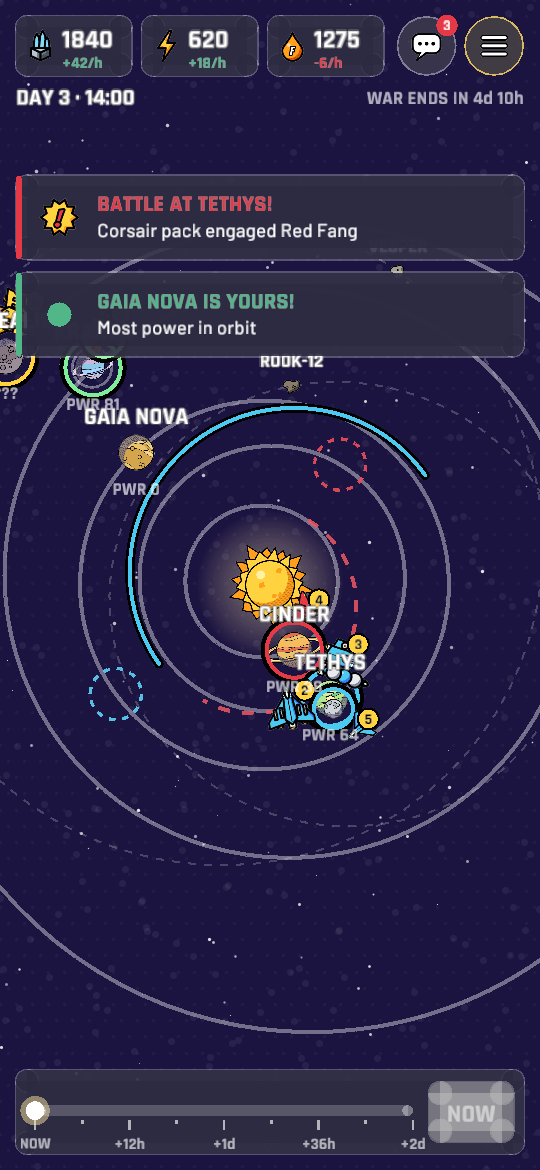
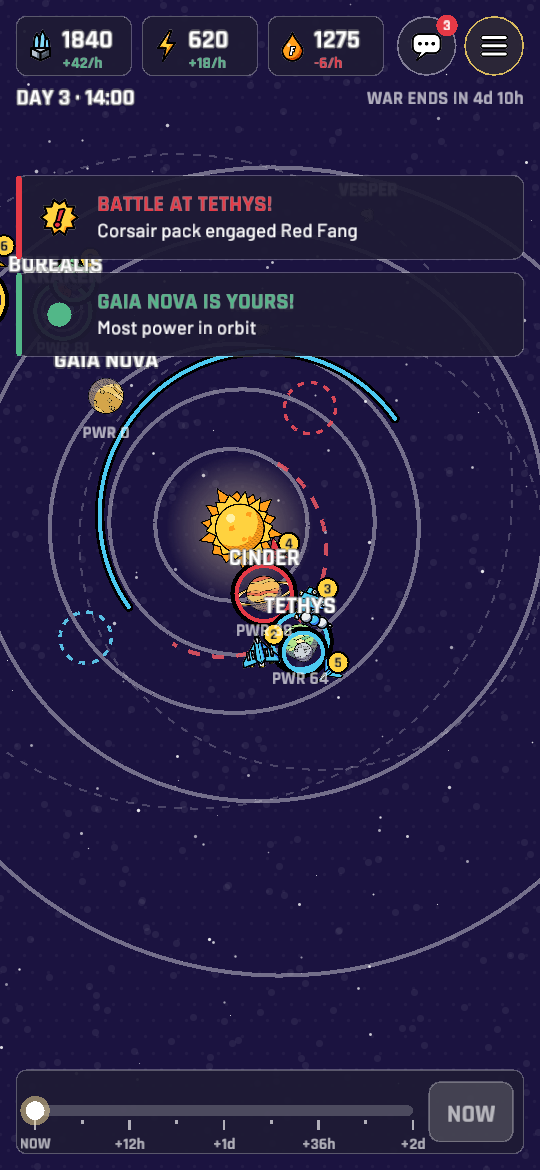
ui: plotting state before blocking plan call, compact target bar, ship sprites in sheets

diff --git a/crates/ui/src/game/panels.rs b/crates/ui/src/game/panels.rs
@@ -234,6 +234,15 @@ pub fn sheet(g: &mut GameScreen, inp: &mut Input, be: &dyn Backend, view: &GameV
                 ship_sheet(g, inp, view, sh, true);
             }
         }
+        Mode::Planning { target, .. } => {
+            let name = view.body(target).map(|b| b.name.to_uppercase()).unwrap_or_default();
+            let label = format!("PLOTTING COURSE TO {name}...");
+            let w = measure(&label, FontKind::Title, 16.0).x + 32.0 * s();
+            let r = Rect::new((screen_width() - w) / 2.0, scrub_top() - 70.0 * s(), w, 40.0 * s());
+            cel::round_rect(r, r.h / 2.0, PANEL);
+            cel::round_rect_lines(r, r.h / 2.0, 1.5 * s(), ACCENT);
+            text(&label, r.center().x, r.center().y + s(), 16.0, ACCENT, FontKind::Title, Align::Center);
+        }
         Mode::Idle => match g.selected {
             Some(Focus::Ship(id)) => {
                 if let Some(sh) = view.ship(id) {
@@ -315,7 +324,9 @@ fn owned_body_sheet(g: &mut GameScreen, inp: &mut Input, view: &GameView, b: &Bo
                 let ok = affordable(view, cost);
                 let br = Rect::new(cr.x + cr.w - 44.0 * s(), cr.y + (cr.h - 32.0 * s()) / 2.0, 36.0 * s(), 32.0 * s());
                 let cx = cr.x + 14.0 * s() + u.max as f32 * 12.0 * s();
-                text(&cost_line(cost), cx, cr.y + cr.h * 0.7, 11.0, if ok { MUTED } else { DANGER }, FontKind::Body, Align::Left);
+                // Narrow cell: matter + energy only (the queue shows build time).
+                let short = format!("{}M {}E", fmt_amount(cost.matter), fmt_amount(cost.energy));
+                text(&short, cx, cr.y + cr.h * 0.7, 11.0, if ok { MUTED } else { DANGER }, FontKind::Body, Align::Left);
                 if widgets::button(inp, br, "+", if ok { Style::Primary } else { Style::Ghost }) {
                     if ok {
                         art::sfx("purchase");
@@ -410,13 +421,55 @@ fn body_sheet(g: &mut GameScreen, inp: &mut Input, view: &GameView, b: &Body) {
     }
 }
 
+fn ship_icon(view: &GameView, sh: &Ship, c: Vec2, px: f32) {
+    let player = view.player(sh.owner);
+    let skin = player.map(|p| art::skin_of(&p.faction)).unwrap_or("vanguard");
+    match art::ship_tex(sh.class, skin, player.map(|p| p.color)) {
+        Some(t) => art::draw_centered(&t, c, vec2(px, px), -0.5, WHITE),
+        None => cel::ship(c, vec2(1.0, -0.5), px * 0.4, team(player.map(|p| p.color)).0),
+    }
+}
+
+/// Compact bar while picking a target, so the map above stays tappable.
+fn target_bar(g: &mut GameScreen, inp: &mut Input, view: &GameView, sh: &Ship) {
+    let r = sheet_rect(112.0);
+    inp.block(r);
+    cel::panel(r, PANEL);
+    ship_icon(view, sh, vec2(r.x + 28.0 * s(), r.y + 28.0 * s()), 34.0 * s());
+    let title = if sh.count > 1 { format!("{} ×{}", sh.name.to_uppercase(), sh.count) } else { sh.name.to_uppercase() };
+    inked(&title, r.x + 54.0 * s(), r.y + 20.0 * s(), 18.0, PAPER, Align::Left);
+    text("Tap a planet or moon to plot a course", r.x + 54.0 * s(), r.y + 40.0 * s(), 13.0, ACCENT, FontKind::Body, Align::Left);
+    let by = r.y + r.h - 52.0 * s();
+    let bw = (r.w - 4.0 * 10.0 * s()) / 3.0;
+    let b = |i: usize| Rect::new(r.x + 10.0 * s() + i as f32 * (bw + 10.0 * s()), by, bw, 42.0 * s());
+    if widgets::button(inp, b(0), "MANEUVER", Style::Secondary) {
+        g.mode = Mode::Nodes(NodeEdit {
+            ship: sh.id,
+            nodes: if sh.nodes.is_empty() { vec![ManeuverNode { t: view.now + 1800.0, prograde: 0.0, radial: 0.0 }] } else { sh.nodes.clone() },
+            sel: 0,
+            preview: None,
+            dirty: true,
+            drag: None,
+        });
+    }
+    if widgets::button(inp, b(1), "DETAILS", Style::Secondary) {
+        g.mode = Mode::Idle;
+    }
+    if widgets::button(inp, b(2), "CANCEL", Style::Ghost) {
+        g.mode = Mode::Idle;
+        g.selected = None;
+    }
+}
+
 fn ship_sheet(g: &mut GameScreen, inp: &mut Input, view: &GameView, sh: &Ship, targeting: bool) {
     let mine = sh.owner == view.me;
+    if targeting {
+        return target_bar(g, inp, view, sh);
+    }
     let r = sheet_rect(if mine { 200.0 } else { 110.0 });
     inp.block(r);
     cel::panel(r, PANEL);
-    let (l, _) = team(view.color_of(Some(sh.owner)));
-    cel::ship(vec2(r.x + 34.0 * s(), r.y + 34.0 * s()), vec2(1.0, -0.4), 16.0 * s(), if mine { PAPER } else { l });
+    ship_icon(view, sh, vec2(r.x + 34.0 * s(), r.y + 34.0 * s()), 40.0 * s());
     let title = if sh.count > 1 { format!("{} ×{}", sh.name.to_uppercase(), sh.count) } else { sh.name.to_uppercase() };
     inked(&title, r.x + 64.0 * s(), r.y + 24.0 * s(), 22.0, PAPER, Align::Left);
     let status = if map::is_flying(sh, view.now) {
@@ -451,10 +504,6 @@ fn ship_sheet(g: &mut GameScreen, inp: &mut Input, view: &GameView, sh: &Ship, t
         let by = r.y + r.h - 58.0 * s();
         let bw = (r.w - 4.0 * 12.0 * s()) / 3.0;
         let b = |i: usize| Rect::new(r.x + 12.0 * s() + i as f32 * (bw + 12.0 * s()), by, bw, 46.0 * s());
-        if targeting {
-            cel::bubble(Rect::new(r.x + r.w - 150.0 * s(), r.y - 30.0 * s(), 140.0 * s(), 36.0 * s()), Some(vec2(r.x + r.w - 40.0 * s(), r.y - 60.0 * s())), PAPER);
-            text("TAP A TARGET", r.x + r.w - 80.0 * s(), r.y - 12.0 * s(), 16.0, INK, FontKind::Title, Align::Center);
-        }
         if widgets::button(inp, b(0), "MANEUVER", Style::Secondary) {
             g.mode = Mode::Nodes(NodeEdit {
                 ship: sh.id,
@@ -516,9 +565,6 @@ fn plan_sheet(g: &mut GameScreen, inp: &mut Input, be: &dyn Backend, view: &Game
         let after = p.windows.iter().copied().find(|&w| w > p.depart_t + 60.0).unwrap_or(p.depart_t + 3600.0);
         let (ship, tgt) = (p.ship, p.target);
         g.plan(be, view, ship, tgt, after);
-        if let Mode::Plan(np) = &g.mode {
-            g.scrub = (np.depart_t - view.now).clamp(0.0, SCRUB_SPAN);
-        }
     }
     if widgets::button(inp, b(2), "CANCEL", Style::Ghost) {
         g.mode = Mode::Idle;

diff --git a/crates/ui/src/game/mod.rs b/crates/ui/src/game/mod.rs
@@ -39,6 +39,8 @@ pub enum Mode {
     /// A ship is picked; next tap on a body plans a transfer.
     Target(ShipId),
     Plan(TransferPlan),
+    /// Planner call pending: drawn for one frame ("plotting...") before the blocking call.
+    Planning { ship: ShipId, target: BodyId, after: f64, shown: bool },
     Nodes(NodeEdit),
 }
 
@@ -128,6 +130,7 @@ impl GameScreen {
             }
             let t = view.now + self.scrub;
             self.sound_cues(view);
+            self.run_pending_plan(be_ref, view.now);
 
             // Overlays are drawn after the map but must win the input, so they register their
             // rects (Input::block) and the map only handles gestures that started elsewhere.
@@ -162,6 +165,7 @@ impl GameScreen {
     fn selected_ship(&self) -> Option<ShipId> {
         match (&self.mode, self.selected) {
             (Mode::Plan(p), _) => Some(p.ship),
+            (Mode::Planning { ship, .. }, _) => Some(*ship),
             (Mode::Nodes(n), _) => Some(n.ship),
             (Mode::Target(s), _) => Some(*s),
             (_, Some(Focus::Ship(s))) => Some(s),
@@ -224,7 +228,7 @@ impl GameScreen {
                     self.mode = Mode::Idle;
                 }
             }
-            (Mode::Nodes(_), _) => {}
+            (Mode::Nodes(_), _) | (Mode::Planning { .. }, _) => {}
             (Mode::Idle, Some(Focus::Ship(s))) => self.pick_ship(view, s),
             (Mode::Idle, h) => self.selected = h,
         }
@@ -241,18 +245,34 @@ impl GameScreen {
         }
     }
 
-    pub fn plan(&mut self, be: &dyn Backend, view: &GameView, ship: ShipId, target: BodyId, after: f64) {
+    pub fn plan(&mut self, _be: &dyn Backend, view: &GameView, ship: ShipId, target: BodyId, after: f64) {
         if view.ship(ship).is_some_and(|s| s.parked_at == Some(target) && !map::is_flying(s, view.now)) {
             self.say("Already there");
+            return;
+        }
+        self.selected = Some(Focus::Ship(ship));
+        self.mode = Mode::Planning { ship, target, after, shown: false };
+    }
+
+    /// Runs a pending plan once its "plotting" frame has been shown.
+    fn run_pending_plan(&mut self, be: &dyn Backend, now: f64) {
+        let Mode::Planning { ship, target, after, shown } = self.mode else { return };
+        if !shown {
+            self.mode = Mode::Planning { ship, target, after, shown: true };
             return;
         }
         match be.plan_transfer(ship, target, after) {
             Some(plan) => {
                 self.selected = Some(Focus::Ship(ship));
+                // "Next window" asks for a later departure: scrub ahead to show it.
+                if after > now + 60.0 {
+                    self.scrub = (plan.depart_t - now).clamp(0.0, SCRUB_SPAN);
+                }
                 self.mode = Mode::Plan(plan);
             }
             None => {
                 crate::art::sfx("ui_error");
+                self.mode = Mode::Target(ship);
                 self.say("No route (check fuel)")
             }
         }
